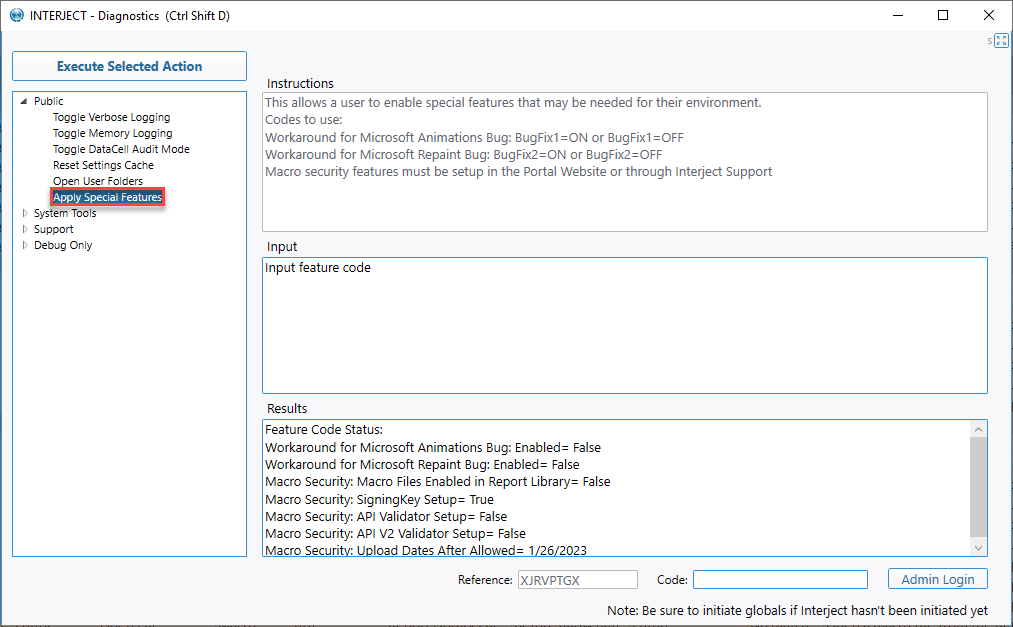
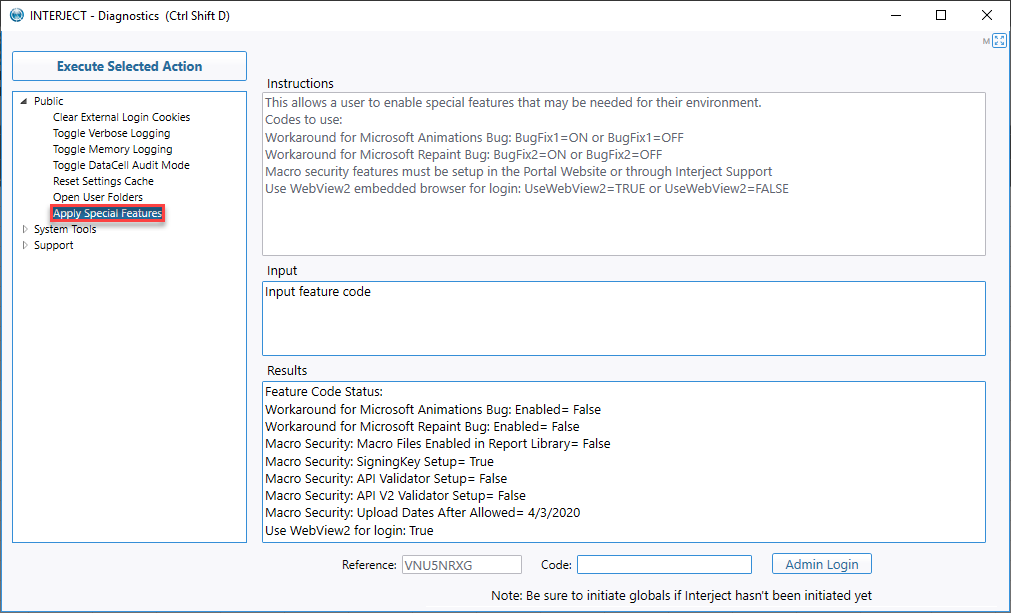
updated pics

diff --git a/wIndex/Diagnostics-SpecialFeatures.md b/wIndex/Diagnostics-SpecialFeatures.md
@@ -13,13 +13,13 @@ images: [
     {file: "BugFix2On", type: "png", site: "Add-in", cat: "Diagnostics", sub: "Apply Special Features", report: "", ribbon: "", config: ""}, 
     {file: "BugFix2Off", type: "png", site: "Add-in", cat: "Diagnostics", sub: "Apply Special Features", report: "", ribbon: "", config: ""}
     ]
-description: The "Apply Special Features" in the Interject Diagnostics Pane allows users to apply certain bux fixes.
+description: The "Apply Special Features" in the Interject Diagnostics Pane allows users to apply certain configurations and bug fixes.
 ---
 * * *   
 
 ## Overview
 
-The "Apply Special Features" in the Interject Diagnostics Pane allows users to apply certain bug fixes.
+The "Apply Special Features" in the Interject Diagnostics Pane allows users to apply certain configurations and bug fixes.
 
 ![](/images/DiagnosticsSpecialFeatures/ApplySpecialFeatures.png)
 <br>
@@ -67,3 +67,20 @@ BugFix2=OFF
 
 ![](/images/DiagnosticsSpecialFeatures/BugFix2Off.png)
 <br>
+
+## Macro Security Settings
+
+These are displayed for your reference here. For more on information, see [Macro Security](/wIndex/MacroSecurity.html)
+
+## Webview2 Login
+
+
+
+```
+UseWebView2=TRUE
+```
+
+
+```
+UseWebView2=FALSE
+```
